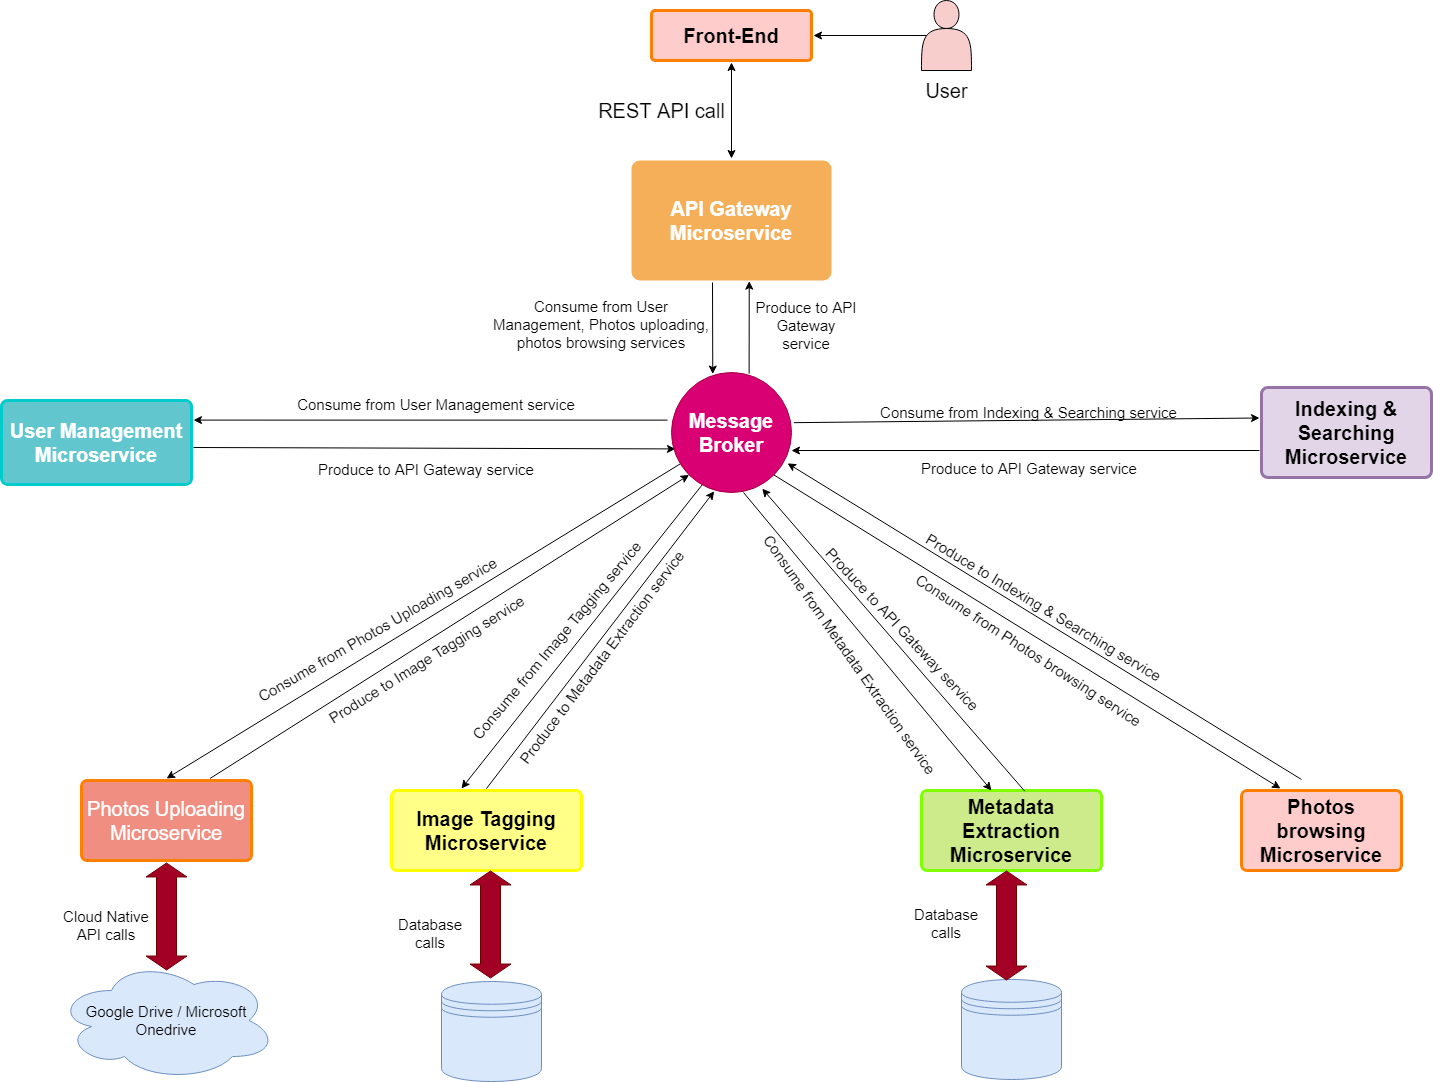
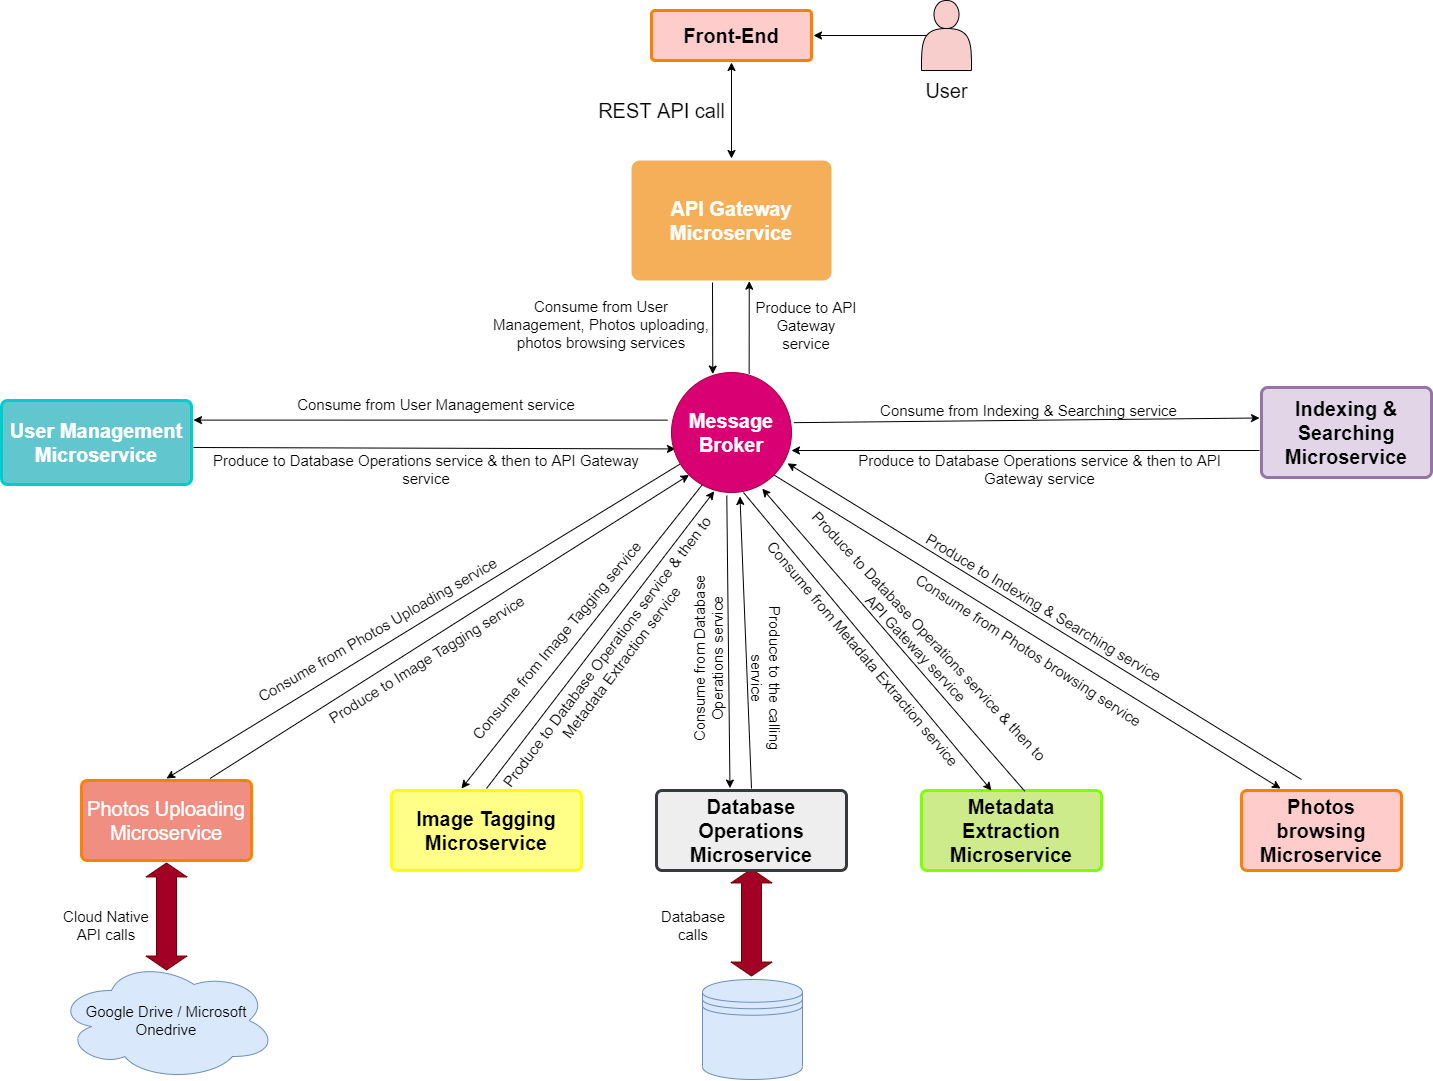
Adding a new database operations microservice to the architecture diagram

diff --git a/README.md b/README.md
@@ -2,7 +2,7 @@
 
 ## Project Overview
 
-<div style="text-align: justify"> This project provides a user interface to upload photos to the archive on remote storage servers. It provides pipelines for extracting additional picture metadata using open-source image parsing libraries. The application also enables browsing the photos organized into collections and metadata searches. It makes use of distributed systems architecture along with Micro-services & Micro-Frontends, and Cloud-Native Architecture principles. The end system developed in three incremental milestones will be highly available and highly scalable, and the architecture will be demonstrably evolvable over time. This project is proposed to use Security (Custos Website, Custos Paper) and Data Management components from the Apache Airavata ecosystem and support accessible storage systems such as https://kb.iu.edu/d/aczn#research , https://uits.iu.edu/google , and https://uits.iu.edu/onedrive using Apache Airavata Managed File Transfer services ( MFT Paper ).</div></br>
+<div style="text-align: justify"> This project provides a user interface to upload photos to the archive on remote storage servers. It provides pipelines for extracting additional picture metadata using open-source image parsing libraries & Image tags using ML/DL algorithms. The application also enables browsing the photos organized into collections and metadata & tag based searches. It makes use of distributed systems architecture along with Micro-services & Micro-Frontends, and Cloud-Native Architecture principles.</div></br>
 
 <b>Languages Used:</b>
 1. Front-End: <i> React.JS </i>
